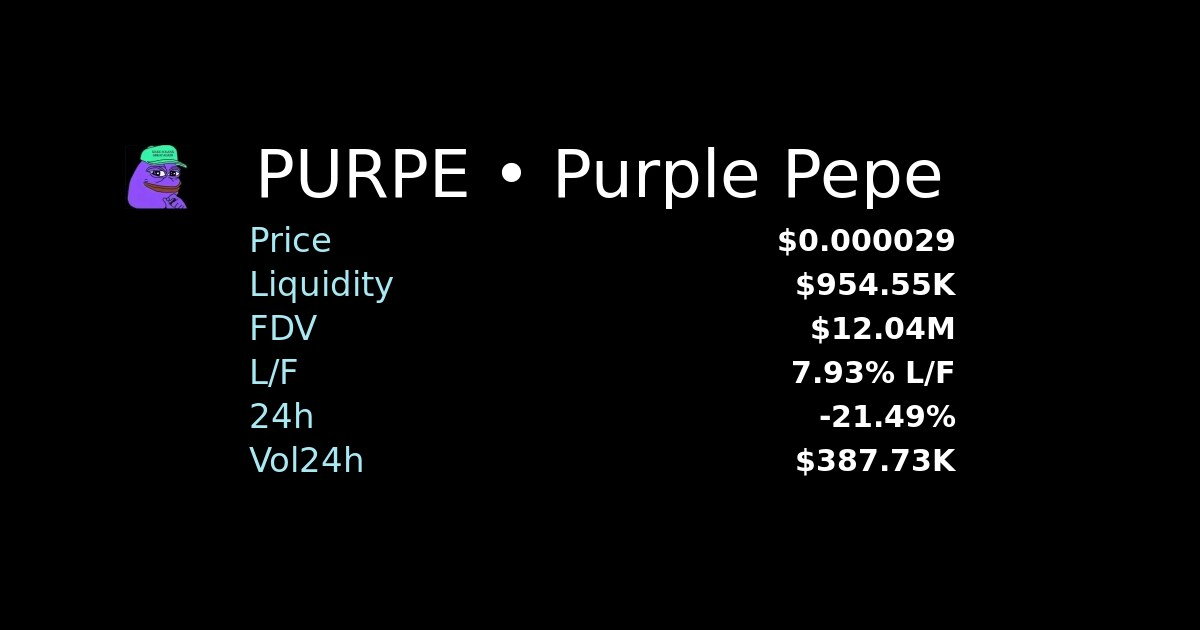
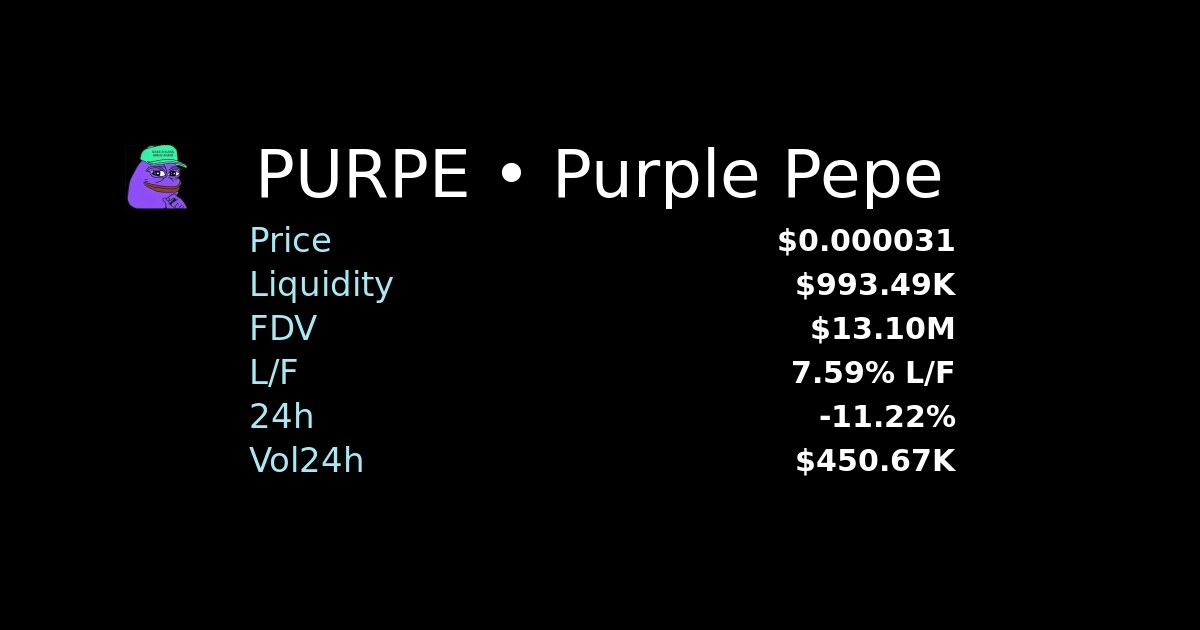
chore: update sitemap & token pages

diff --git a/token/HBoNJ5v8g71s2boRivrHnfSB5MVPLDHHyVjruPfhGkvL/index.html b/token/HBoNJ5v8g71s2boRivrHnfSB5MVPLDHHyVjruPfhGkvL/index.html
@@ -4,14 +4,14 @@
     <meta charset="utf-8" />
     <meta name="viewport" content="width=device-width,initial-scale=1" />
     <title>PURPE on Solana</title>
-    <meta name="description" content="Purple Pepe • Price: $0.000029 • Liquidity: $954.55K" />
+    <meta name="description" content="Purple Pepe • Price: $0.000031 • Liquidity: $993.49K" />
     <meta name="author" content="builders-toronto" />
     <meta name="keywords" content="solana, memecoin, bonk, wif, dog, inu, pepe, cat, meme, ponk, samo, purry, purr, kitty, meow, woof, frog, snek, toad, bob, dino, monke, monkey, ape, corgi, floki, elon" />
 
     <!-- OG -->
     <meta property="og:type" content="website" />
     <meta property="og:title" content="PURPE on Solana" />
-    <meta property="og:description" content="Purple Pepe • Price: $0.000029 • Liquidity: $954.55K" />
+    <meta property="og:description" content="Purple Pepe • Price: $0.000031 • Liquidity: $993.49K" />
     <meta property="og:url" content="https://fdv.lol/token/HBoNJ5v8g71s2boRivrHnfSB5MVPLDHHyVjruPfhGkvL" />
     <meta property="og:image" content="https://fdv.lol/token/HBoNJ5v8g71s2boRivrHnfSB5MVPLDHHyVjruPfhGkvL/og.jpg" />
     <meta property="og:image:width" content="1200" />
@@ -21,7 +21,7 @@
     <!-- Twitter -->
     <meta name="twitter:card" content="summary_large_image" />
     <meta name="twitter:title" content="PURPE on Solana" />
-    <meta name="twitter:description" content="Purple Pepe • Price: $0.000029 • Liquidity: $954.55K" />
+    <meta name="twitter:description" content="Purple Pepe • Price: $0.000031 • Liquidity: $993.49K" />
     <meta name="twitter:image" content="https://fdv.lol/token/HBoNJ5v8g71s2boRivrHnfSB5MVPLDHHyVjruPfhGkvL/og.jpg" />
 
     <link rel="icon" type="image/png" href="/src/assets/images/icons/fdv.lol.ico" />
@@ -35,7 +35,7 @@
       "@type": "WebSite",
       "name": "PURPE on Solana",
       "url": "https://fdv.lol/token/HBoNJ5v8g71s2boRivrHnfSB5MVPLDHHyVjruPfhGkvL",
-      "description": "Purple Pepe • Price: $0.000029 • Liquidity: $954.55K",
+      "description": "Purple Pepe • Price: $0.000031 • Liquidity: $993.49K",
       "keywords": [
         "solana",
         "memecoin",
